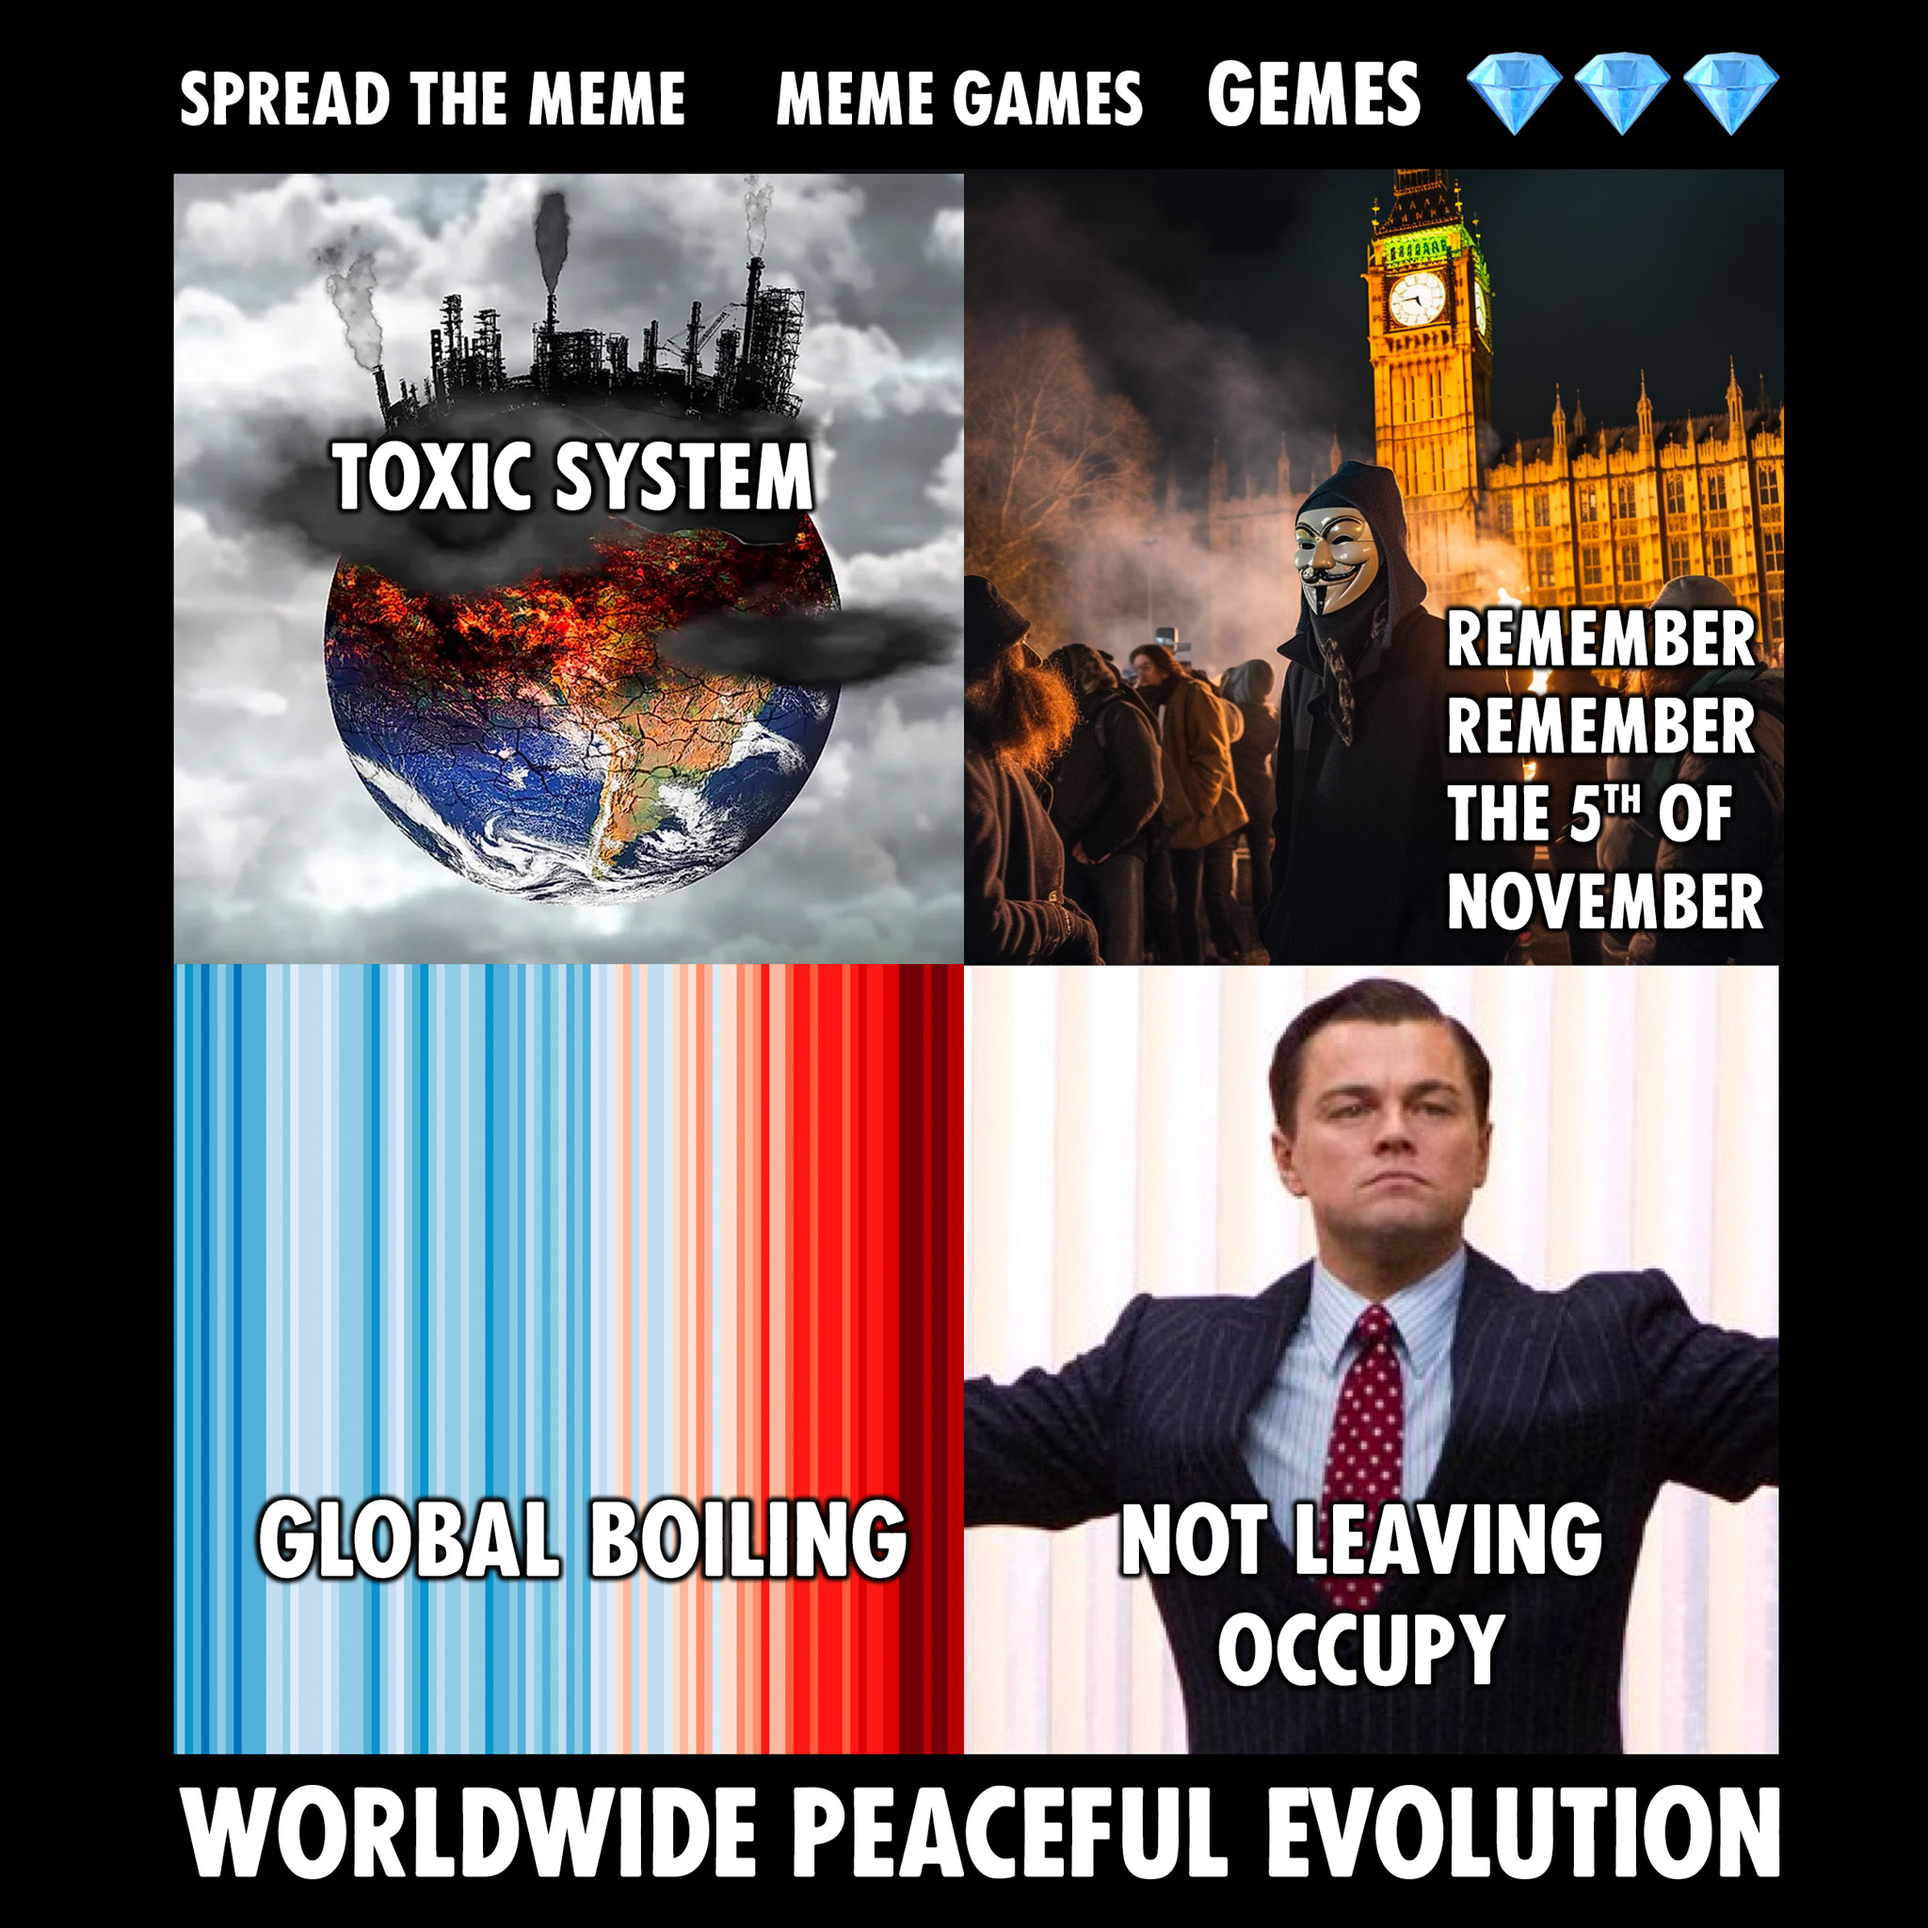
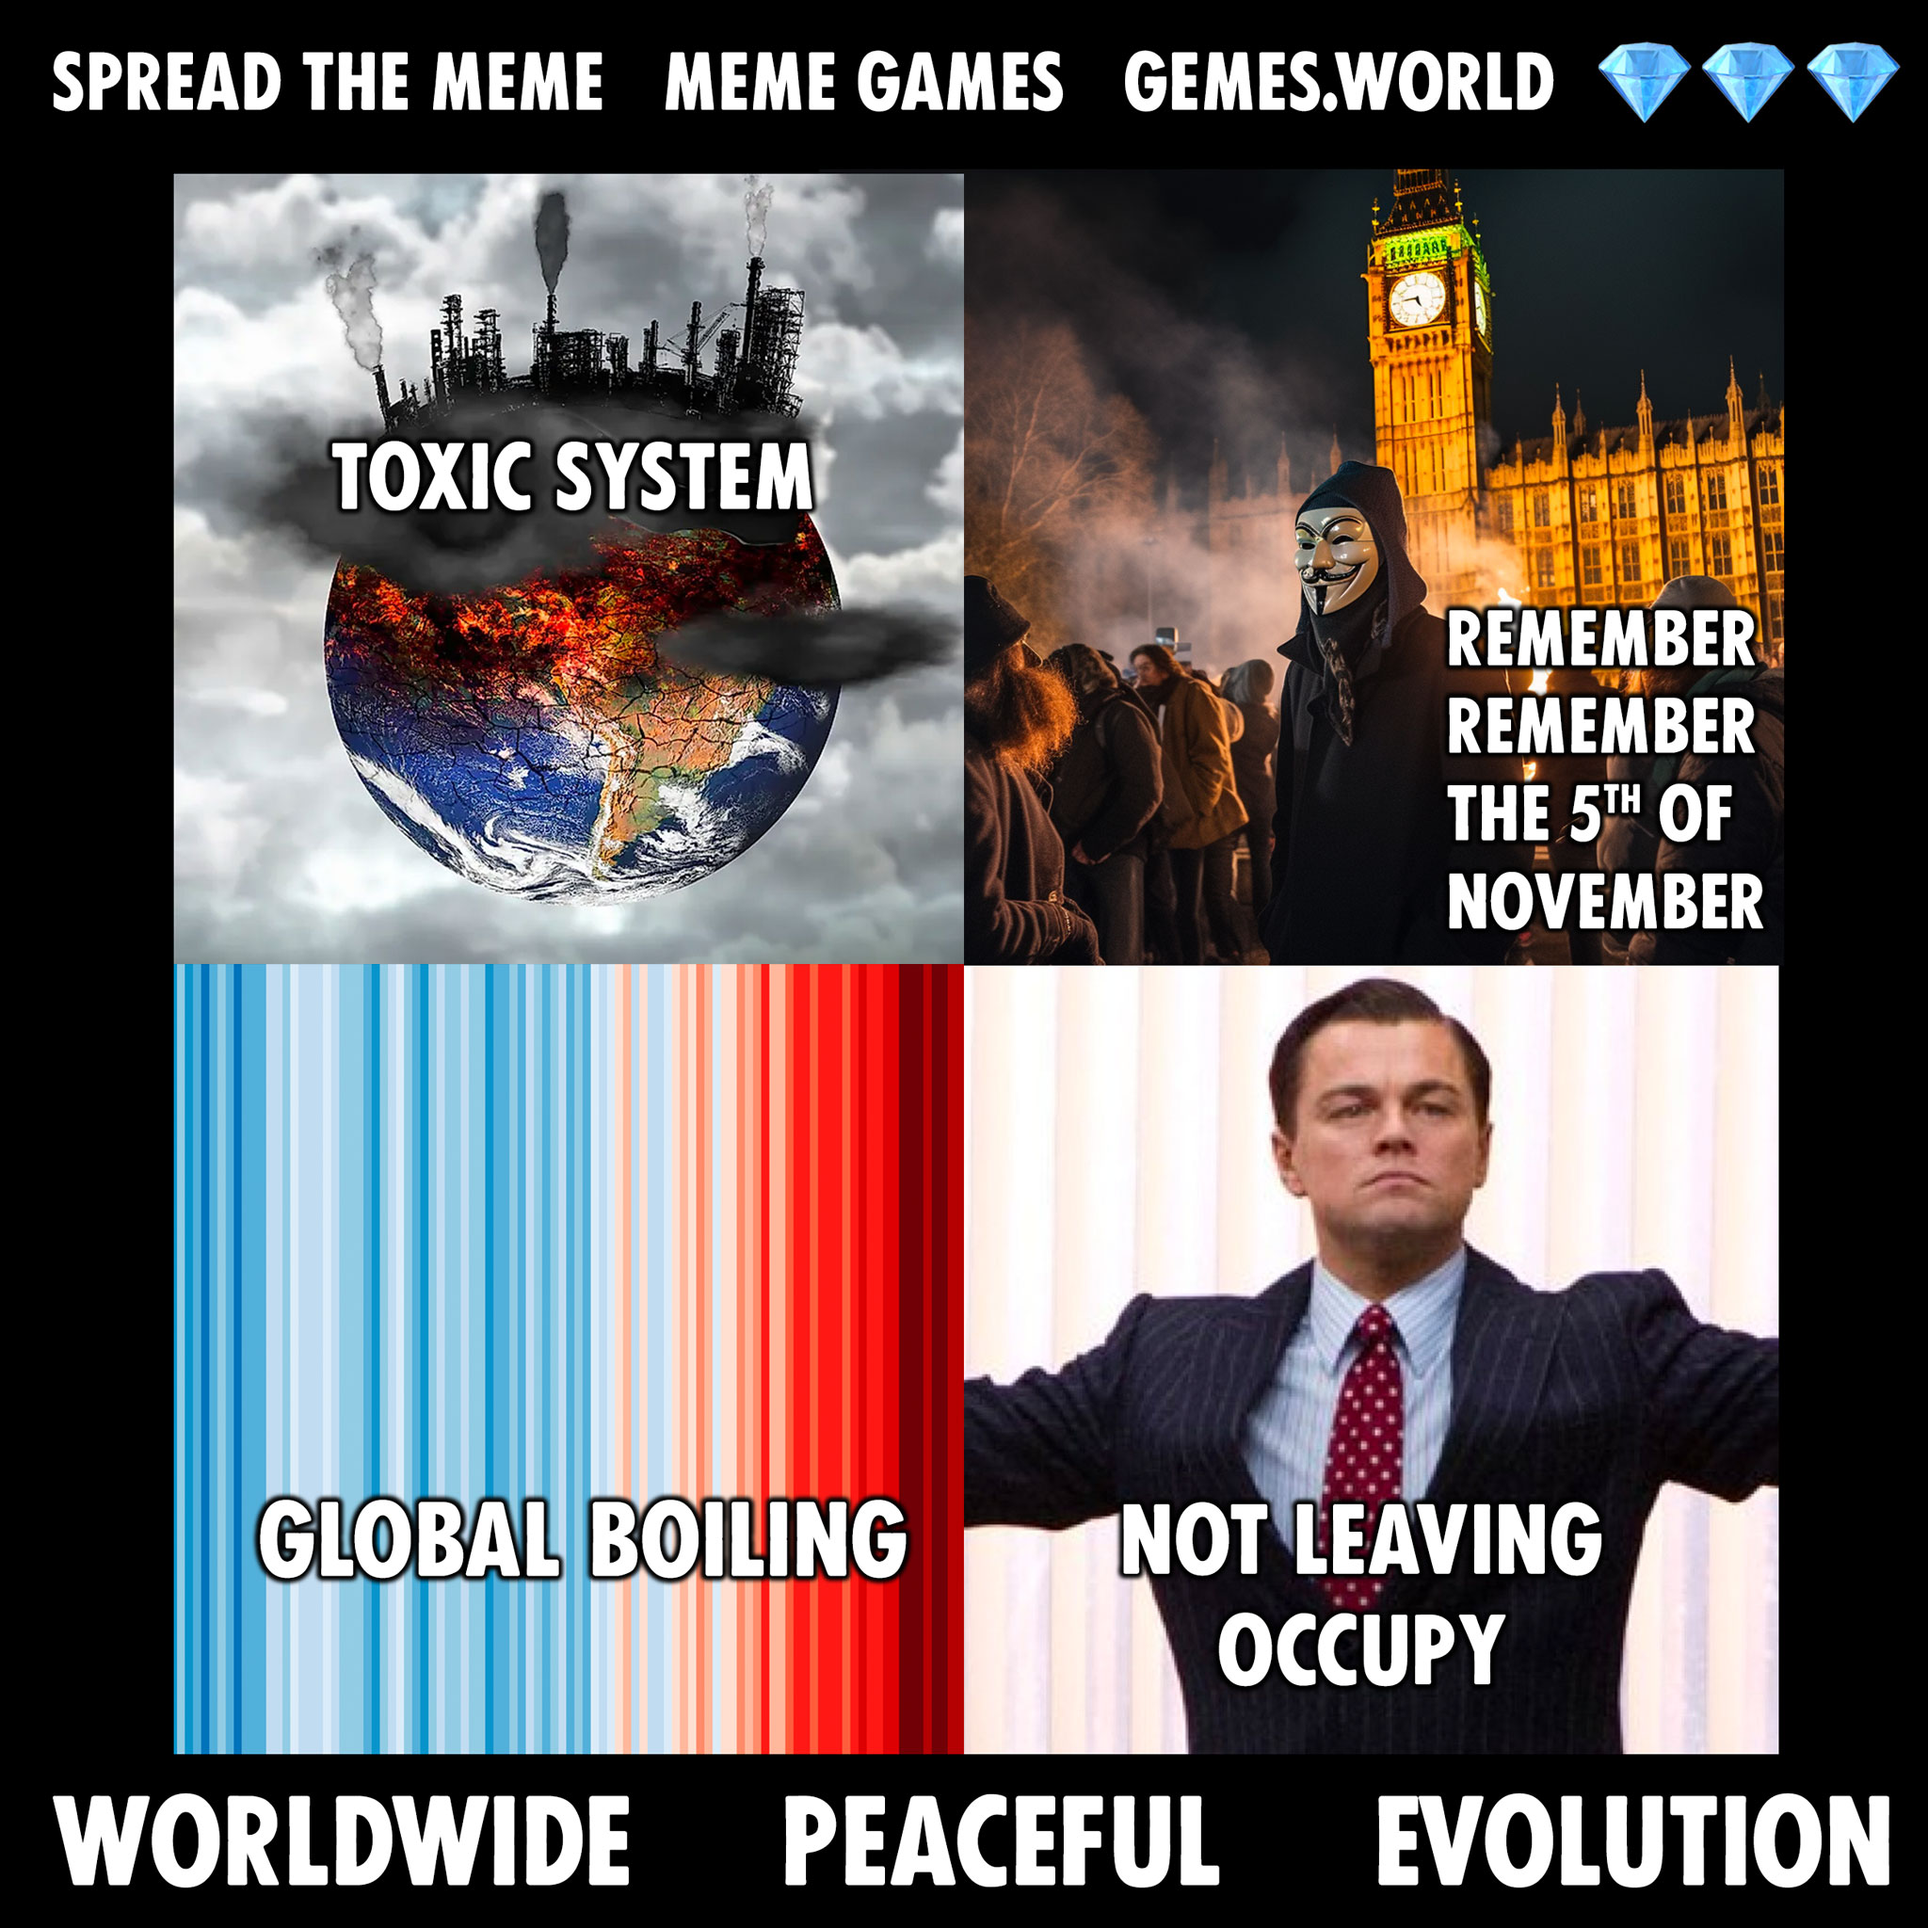
Updating image, writing in the corrent place

Changed region(s): [[0.0312, 0.9062, 1.0, 1.0], [0.0312, 0.0, 1.0, 0.0625]]

diff --git a/public/index.html b/public/index.html
@@ -78,6 +78,7 @@
             ctx.fillStyle = 'white';
             ctx.fillRect(749, 709, 550, 590);
 
+            // Sorry not sorry for using GLOBAL variables, but actually I want to use it in other places (trust me bro, I know what I'm doing)
             qrcodeGLOBAL = new QRCode(document.getElementById("qrcode"), {
                 text: "http://jindo.dev.naver.com/collie",
                 width: 1024,
@@ -94,12 +95,12 @@
     });
 
     function write_text_on_top(text) {
-        ctx.fillStyle = 'black';
-        ctx.fillRect(50, 30, 200, 50);
+        ctx.fillStyle = 'white';
+        ctx.fillRect(759, 1259, 500, 30);
 
         ctx.font = '24px FucXed Caps Latin';
-        ctx.fillStyle = 'white';
-        ctx.fillText(text, 50, 50);
+        ctx.fillStyle = 'black';
+        ctx.fillText(text, 769, 1279);
     }
 
 
